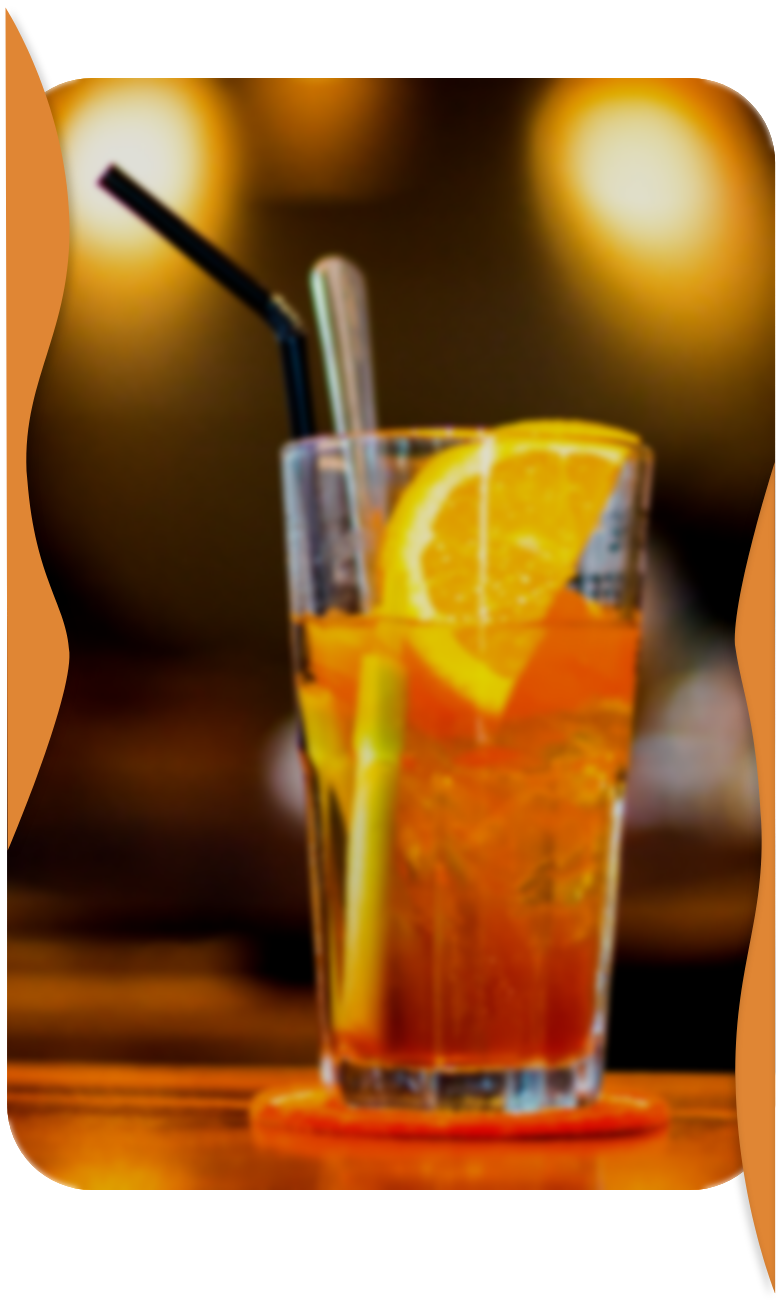
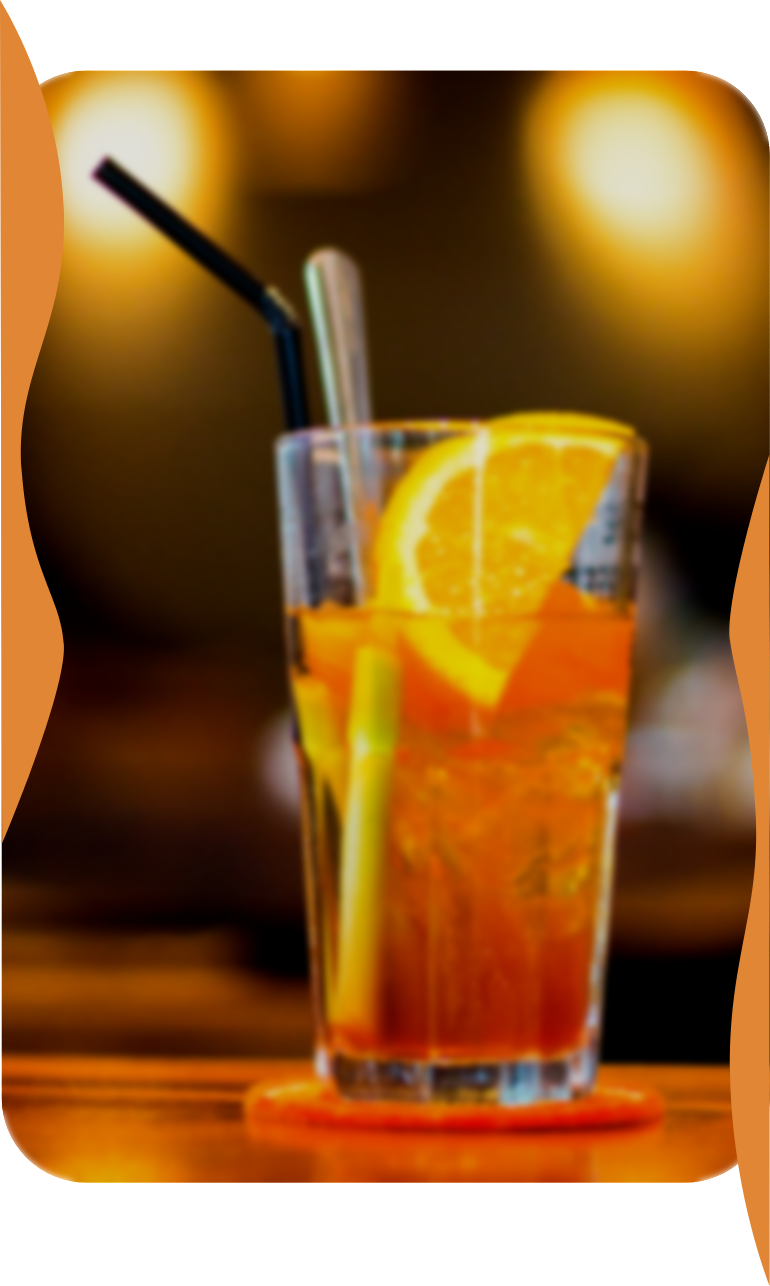
fixedImgageBugs

diff --git a/Website/index.html b/Website/index.html
@@ -22,9 +22,9 @@
 
 <body>
 <div class="landingPage-container">
-    <nav>
+    <!-- <nav>
         <p>Nav menu</p>
-    </nav>
+    </nav> -->
    <header>
     <h1 class="hidden">Sugar Ray's Sweet Tea</h1>
         <img src="/Website/Assets/logo.jpg" alt="">
@@ -37,7 +37,7 @@
    <main>
     <picture>
         <source media="(min-width: 700px)" srcset="/Website/Assets/tabletBackground.png" />
-        <img src="/Website/Assets/mobileBackground.png" alt="">
+        <img src="/Website/Assets/mobileBackgroundNoShadow.png" alt="">
     
     </picture>
     <section>
@@ -102,7 +102,7 @@
    </main>
 
    <footer>
-    <h2>The footer</h2>
+    <h2>Find out Sweet Tea at a local store.</h2>
    </footer>
 
 

diff --git a/Website/style.css b/Website/style.css
@@ -112,6 +112,12 @@ h1, p, h2{
   }
 
 
+  .landingPage-container>main>picture>img{
+    height: 100%;
+    width: 100%;
+  }
+
+
 
   .landingPage-container>main>section{
     display: grid;
@@ -214,6 +220,12 @@ h1, p, h2{
     border: solid 1px white;
     box-shadow: 0 0 5px #E08634;  
     cursor: pointer;
+
+  }
+
+  .landingPage-container>footer{
+    display: grid;
+    justify-content: center;
 
   }
 
